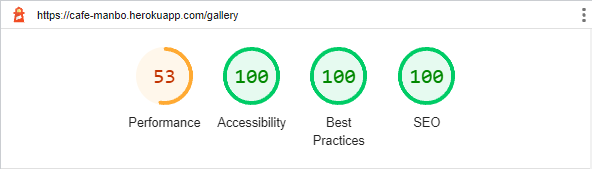
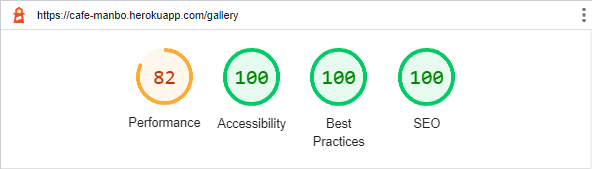
Add gallery page lighthouse results to bugs fixed in readme.md

diff --git a/README.md b/README.md
@@ -1193,6 +1193,16 @@ In addition to the other tests, I have conducted a manual check list for myself 
 
     * I found an article online which mentioned that setting async="false" would fix my "Uncaught in promise" console error however I later found at that this has been deprecated. Additionally I solved the "Uncaught in promise" error as mentioned above. To fix this HTML Validation Error, I simply removed the async="false" attribute.
 
+    ### Gallery Page Lighthouse Results
+
+    * When testing the entire website with [Chrome Dev Tools](https://developer.chrome.com/docs/devtools/) Lighthouse tool, I was not satisfied with the performance score.
+
+    ![Old Lighthouse Gallery Score](static/images/readme-images/desktop-lighthouse-gallery-old-image.png)
+
+    * After attempting many different methods to fix this issue and increase the performance, I decided to implement a Bootstrap 5 carousel which greatly increased the performance of this page. I also think it makes the page more user friendly and more appealing to the eye.
+
+    ![New Lighthouse Gallery Score](static/images/readme-images/desktop-lighthouse-gallery-image.png)
+
 * ## Bugs Unresolved
 
     ### navigator.userAgent/appVersion and platform
